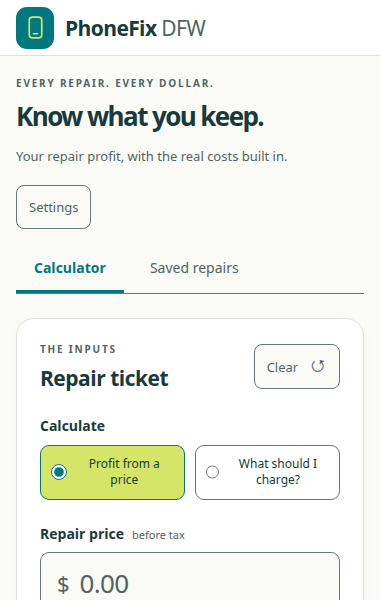
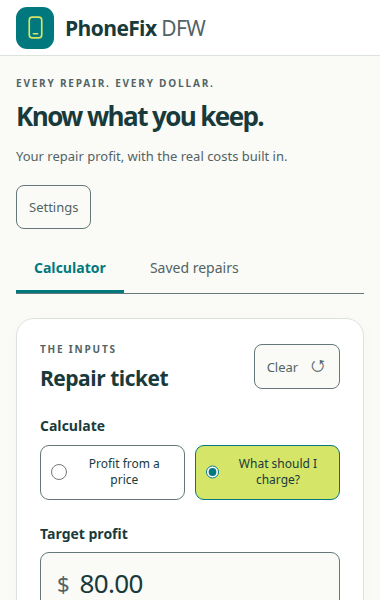
Assert popup defaults to What should I charge? on load and after Clear; retake screenshot

Changed region(s): [[0.0868, 0.72, 0.8974, 0.84], [0.0868, 0.87, 0.4921, 0.9], [0.2026, 0.96, 0.3763, 0.99]]

diff --git a/tests/extension.spec.ts b/tests/extension.spec.ts
@@ -53,6 +53,7 @@ test('built extension popup calculates, imports a settings code and keeps it in 
     };
 
     const first = await open();
+    await expect(first.page.getByLabel('What should I charge?')).toBeChecked();
     // Screenshot before any ticket is entered so no warranty costs end up in a committed file.
     mkdirSync('docs/issue-23', { recursive: true });
     await first.page.screenshot({ path: 'docs/issue-23/popup.png' });
@@ -60,6 +61,8 @@ test('built extension popup calculates, imports a settings code and keeps it in 
     await first.page.getByLabel('Repair price before tax').fill('91');
     await expect(first.page.locator('#profit')).toHaveText('$73.77');
     expect(await first.page.evaluate(() => document.documentElement.scrollWidth <= innerWidth)).toBe(true);
+    await first.page.getByRole('button', { name: /^Clear/ }).click();
+    await expect(first.page.getByLabel('What should I charge?')).toBeChecked();
 
     // Bring settings over once with the existing settings code.
     const code = await encodeSettingsCode({ ...DEFAULT_CONFIG, salesTaxBps: 1000, cardFeeBps: 300 });
